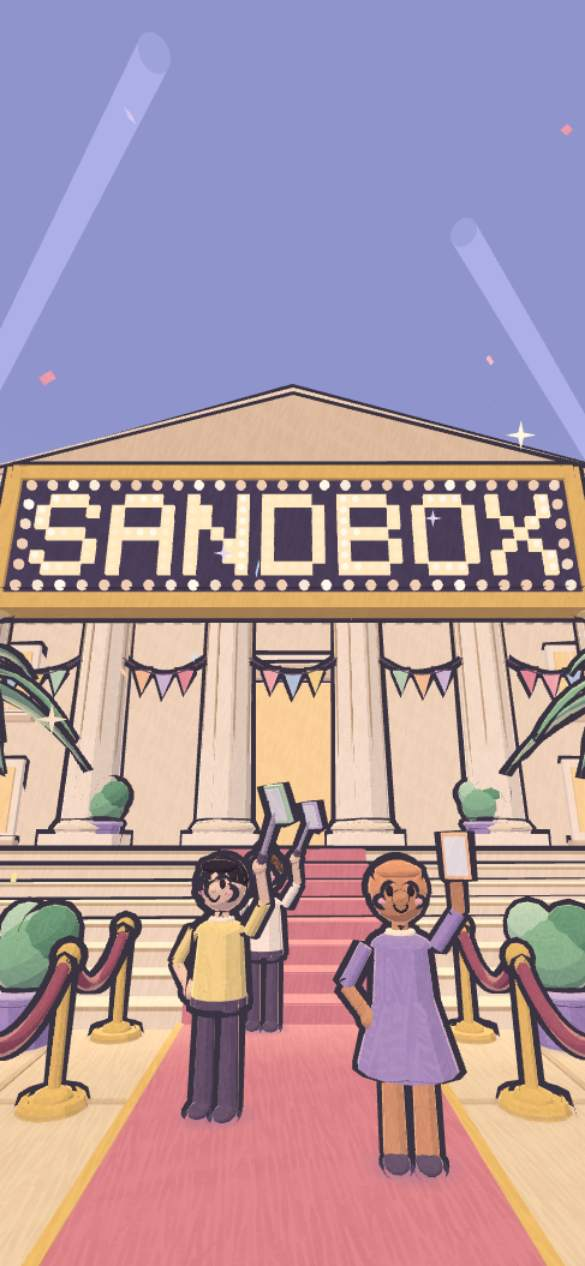
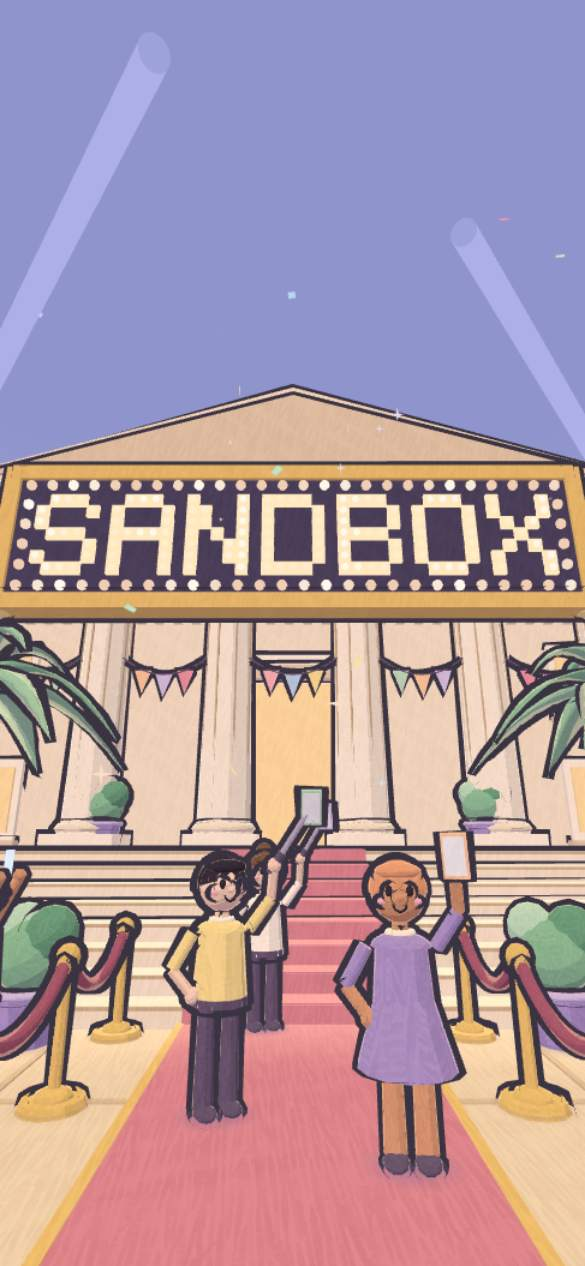
fix(hero): planters clear of the photo wall; review nits and tests
Palms sit at x = ±4.9, clear of both the steps and the photo wall's foot.
Crowd spacing back to 0.8 m so wide builds don't overlap, fuller hair
widens instead of floating, comments match the shaders, and tests cover
crowd hair counts per tier and sparkles staying out of the viewer's face.

diff --git a/src/hero/scene.js b/src/hero/scene.js
@@ -144,8 +144,8 @@ const COLUMNS = [-8.4, -5, -1.7, 1.7, 5, 8.4];
 const COLUMN_Z = -2.4;
 /** Planters with palms at the corners of the carpet. */
 const PALMS = [
-  [-5.5, 3.75],
-  [5.5, 3.75],
+  [-4.9, 3.75],
+  [4.9, 3.75],
   [-5.5, KERB_Z - 1.2],
   [5.5, KERB_Z - 1.2],
 ];
@@ -1689,7 +1689,7 @@ function crowd(count, paparazzi, random, low = false) {
     ].some(([px, pz]) => Math.hypot(x - px, z - pz) < 1.0); // shrubs and the arch's feet
 
   /** @param {number} x @param {number} z */
-  const crowded = (x, z) => folks.some((f) => Math.hypot(f.x - x, f.z - z) < 0.72);
+  const crowded = (x, z) => folks.some((f) => Math.hypot(f.x - x, f.z - z) < 0.8);
   /** A look for one person: build, hair and colouring vary, and a few are children. */
   const look = () => {
     const child = random() < 0.06;
@@ -1839,9 +1839,9 @@ function crowd(count, paparazzi, random, low = false) {
       built.set(f.w, f.h, f.w);
       body.setMatrixAt(i, m.compose(p.set(f.x, hop, f.z), q, built));
       head.setMatrixAt(i, m.compose(p.set(f.x, hop + 1.47 * f.h, f.z), q, s));
-      // Short hair can be a fuller, rounder cut.
-      puff.copy(s).multiplyScalar(f.hair === 2 ? 1.1 : 1);
-      if (f.hair === 2) puff.y *= 1.12;
+      // Short hair can be a fuller, wider cut.
+      puff.copy(s);
+      if (f.hair === 2) puff.x = puff.z = s.x * 1.12;
       (f.hair === 1 ? hairLong : hairShort).setMatrixAt(hairSlot[i], m.compose(p, q, f.hair === 1 ? s : puff));
       // Arms from the shoulders: down, hands together in front, raised and
       // cheering, or up to the face holding a camera.
@@ -1943,7 +1943,7 @@ function figure(b, look) {
     b.pole(rHand, tip, 0.028, METAL, 6);
     b.pole(rHand.clone().lerp(tip, -0.12), rHand.clone().lerp(tip, 0.22), 0.045, PLUM, 8);
   }
-  // The phone: a pastel case with its screen toward the poser.
+  // The phone: a pastel case, its screen out toward the crowd.
   const phone = new Matrix4().lookAt(tip, new Vector3(0, 1.9, 2), new Vector3(0, 1, 0)).setPosition(tip);
   b.add(new BoxGeometry(0.21, 0.36, 0.05), look.case, phone);
   b.add(

diff --git a/src/hero/crayon.js b/src/hero/crayon.js
@@ -268,8 +268,8 @@ const fragmentMain = /* glsl */ `
 {
   // Soft grain in the surface's own colour: the strokes are a shade deeper
   // and a little richer than the flat colour, pressed unevenly, and where they
-  // leave gaps the colour itself shows. Nothing is lighter than the surface,
-  // so the strokes never read as pale streaks laid over it.
+  // leave gaps the colour itself shows (3% up, to keep the overall tone). No
+  // paper white, so the strokes never read as pale streaks laid over it.
   vec3 cn = vCrayonNormal;
   float wax = crayonWax(vCrayonPos, length(cn) > 0.0 ? normalize(cn) : vec3(0.0, 0.0, 1.0));
   float stroke = smoothstep(0.2, 0.6, wax) * clamp(wax, 0.0, 1.2);

diff --git a/AGENTS.md b/AGENTS.md
@@ -94,7 +94,7 @@ The shortcuts can be turned off from the footer ("Turn off keyboard shortcuts", 
 - The look is a pastel dusk, cel-shaded. Every colour comes from `src/hero/palette.js`, which mirrors `tokens.css` plus a few mid and deep tones of the same hues; the unit tests keep every vertex and instance colour under 0.45 sRGB chroma. Solid materials are `MeshToonMaterial` built by `toon()` in `scene.js`, sharing one 3-band ramp (`NearestFilter`, so the terminator is crisp). The hemisphere light's lilac ground colour gives the shadows their lilac, and `crayon.js` adds a stepped peach rim light (`CRAYON_RIM`) on the silhouettes. The marquee bulbs stay warm (`MARQUEE_YELLOW`).
 - Contact points: feet and props sit exactly on what is under them (the carpet top is `CARPET_TOP`), ropes and bunting hang as catenaries from their posts, and soft blob shadows sit under everything that touches the ground. Still props share one merged `contact-shadows` mesh. People and limos share one instanced `moving-shadows` mesh, whose slots each mover's `update` fills. The unit tests check that the influencers' and the crowd's lowest points are at the ground.
 - The crowd stands in little groups of one to five (some turned in to chat), with varied heights and builds, a few children, arms down, together in front or raised with phones, and hair in its own instanced meshes (short, fuller or long) in varied colours. Palm fronds are closed, tapered leaf blades (`frond()`) that arch out and droop, folded along the midrib; sparkles keep clear of the viewer.
-- The crayon is on the models, not over the screen: there is no full-screen pass, the scene renders straight to the canvas (with the canvas's own multisampling where the tier has it). `src/hero/crayon.js` makes one small stroke texture at load (`crayonTexture`, 256², no download): rows of tapered, overlapping wax strokes with paper between, the paper's tooth breaking them up, and four slightly redrawn versions of the same strokes in its four channels. `createCrayon().apply(scene)` patches every opaque toon, Lambert and basic material (`onBeforeCompile`) to sample it triplanar in the mesh's own object space, so the strokes stick to the surface and move with it, `STROKE_TILE` metres a tile. Each face orientation turns the strokes its own way, as if coloured in by hand, and a much bigger, mip-blurred sample of the same texture varies the pressure in broad patches and keeps big walls from showing the tile. The wax is a shade deeper and a little richer than the material's own colour (vertex and instance colours included), and the gaps show the colour itself: nothing is lighter than the surface, so the strokes read as soft grain in its tint, never as pale streaks over it. The sky has none. Mipmaps and anisotropic filtering stop distant and grazing surfaces from shimmering. Phones (`CRAYON_LITE`) sample only the plane a surface faces most. Light sources and additive beams are left alone.
+- The crayon is on the models, not over the screen: there is no full-screen pass, the scene renders straight to the canvas (with the canvas's own multisampling where the tier has it). `src/hero/crayon.js` makes one small stroke texture at load (`crayonTexture`, 256², no download): rows of tapered, overlapping wax strokes with paper between, the paper's tooth breaking them up, and four slightly redrawn versions of the same strokes in its four channels. `createCrayon().apply(scene)` patches every opaque toon, Lambert and basic material (`onBeforeCompile`) to sample it triplanar in the mesh's own object space, so the strokes stick to the surface and move with it, `STROKE_TILE` metres a tile. Each face orientation turns the strokes its own way, as if coloured in by hand, and a much bigger, mip-blurred sample of the same texture varies the pressure in broad patches and keeps big walls from showing the tile. The wax is a shade deeper and a little richer than the material's own colour (vertex and instance colours included), and the gaps show the colour itself: there is no paper white, so the strokes read as soft grain in its tint, never as pale streaks over it. The sky has none. Mipmaps and anisotropic filtering stop distant and grazing surfaces from shimmering. Phones (`CRAYON_LITE`) sample only the plane a surface faces most. Light sources and additive beams are left alone.
 - Ink outlines are inverted hulls: back faces pushed out along smoothed normals (`hullGeometry` welds the corners so the hull closes) by `OUTLINE_PX` (3) CSS pixels on screen in plum-charcoal ink (up to 40% heavier on things within a few metres of the viewer, so the foreground people and props read as inked), wavering smoothly along their length, faded by the fog. `Batch` builds a mesh's hull from its solid parts only (`userData.hull`; flat shapes like bunting have no inside, and small details added with `detail()` or `outline = false` such as windows and dentils are left out), the crowd's instanced solids get hulls that share their instance matrices (`userData.outline`), and all scenery that never moves (`userData.still`) shares one merged hull, so the outlines cost a handful of draw calls. `e2e/hero.spec.mjs` checks the marks move with the scene when the camera turns.
 - The boil: like hand-drawn animation, the drawing steps through its `BOIL_VARIANTS` (4) redrawn versions `BOIL_FPS` (5) times a second (`boilStep` in `crayon.js`): one shared uniform picks the texture channel for every material, and the outline jitter steps with it. A paused or reduced-motion frame holds one. The flicker QA tells "steady" frames (all inside one boil step) from boil frames (across a step): steady frames must not flicker at all, which is what catches anything per-frame or high-frequency, and boil frames may change by a redraw's worth.
 - Things that keep it from flickering, and must stay that way: multisampled rendering (4x on desktop, the canvas default on phones); the stroke texture is mipmapped and anisotropic and only changes in boil steps; lights fade rather than switch (marquee chase, flashes with a rise and decay, the ad screen's slide changes); confetti grows in and out of sight; decals sit clearly proud of the surfaces under them.
